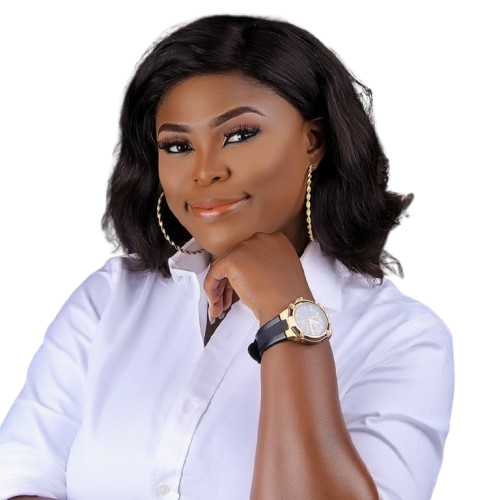
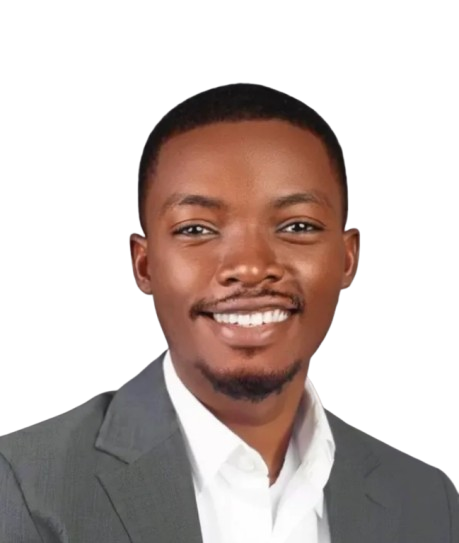
region switcher added

diff --git a/src/components/RegionSwitcher.jsx b/src/components/RegionSwitcher.jsx
@@ -1,0 +1,122 @@
+"use client";
+
+import { useState, useEffect, useRef } from "react";
+import { useRouter, usePathname } from "next/navigation";
+
+const regions = [
+  { code: "", name: "Nigeria", flag: "🇳🇬" },
+  { code: "uk", name: "United Kingdom", flag: "🇬🇧" },
+  { code: "global", name: "Global", flag: "🌍" },
+];
+
+export default function RegionSwitcher() {
+  const [isOpen, setIsOpen] = useState(false);
+  const router = useRouter();
+  const pathname = usePathname();
+  const dropdownRef = useRef(null);
+
+  // Determine the current region directly from the pathname
+  const pathSegments = pathname.split("/").filter(Boolean);
+  const currentRegionCode =
+    pathSegments[0] && regions.some((r) => r.code === pathSegments[0])
+      ? pathSegments[0]
+      : "";
+
+  const currentRegion =
+    regions.find((r) => r.code === currentRegionCode) || regions[0];
+
+  // Close dropdown when clicking outside
+  useEffect(() => {
+    const handleClickOutside = (event) => {
+      if (dropdownRef.current && !dropdownRef.current.contains(event.target)) {
+        setIsOpen(false);
+      }
+    };
+
+    if (isOpen) {
+      document.addEventListener("mousedown", handleClickOutside);
+    }
+
+    return () => {
+      document.removeEventListener("mousedown", handleClickOutside);
+    };
+  }, [isOpen]);
+
+  const handleRegionChange = (regionCode) => {
+    // Get the path without the current region
+    let remainingPath = pathname;
+
+    // If current path starts with a region code, remove it
+    if (pathSegments[0] && regions.some((r) => r.code === pathSegments[0])) {
+      remainingPath = "/" + pathSegments.slice(1).join("/");
+    }
+
+    // Construct new path
+    const newPath = regionCode
+      ? `/${regionCode}${remainingPath}`
+      : remainingPath;
+
+    router.push(newPath);
+    setIsOpen(false);
+  };
+
+  return (
+    <div ref={dropdownRef} className="relative inline-block text-left">
+      <button
+        onClick={() => setIsOpen(!isOpen)}
+        className="inline-flex items-center justify-center w-full px-4 py-2 text-sm font-medium text-gray-700 bg-white border border-gray-300 rounded-md shadow-sm hover:bg-gray-50 focus:outline-none focus:ring-2 focus:ring-offset-2 focus:ring-blue-500"
+      >
+        <span className="mr-2">{currentRegion.flag}</span>
+        {currentRegion.name}
+        <svg
+          className={`ml-2 -mr-1 h-5 w-5 transition-transform ${
+            isOpen ? "rotate-180" : ""
+          }`}
+          xmlns="http://www.w3.org/2000/svg"
+          viewBox="0 0 20 20"
+          fill="currentColor"
+        >
+          <path
+            fillRule="evenodd"
+            d="M5.293 7.293a1 1 0 011.414 0L10 10.586l3.293-3.293a1 1 0 111.414 1.414l-4 4a1 1 0 01-1.414 0l-4-4a1 1 0 010-1.414z"
+            clipRule="evenodd"
+          />
+        </svg>
+      </button>
+
+      {isOpen && (
+        <div className="absolute right-0 z-10 mt-2 w-56 origin-top-right bg-white border border-gray-300 rounded-md shadow-lg">
+          <div className="py-1">
+            {regions.map((region) => (
+              <button
+                key={region.code}
+                onClick={() => handleRegionChange(region.code)}
+                className={`flex items-center w-full px-4 py-2 text-sm text-left hover:bg-gray-100 ${
+                  currentRegion.code === region.code
+                    ? "bg-blue-50 text-blue-700"
+                    : "text-gray-700"
+                }`}
+              >
+                <span className="mr-3">{region.flag}</span>
+                {region.name}
+                {currentRegion.code === region.code && (
+                  <svg
+                    className="ml-auto h-4 w-4 text-blue-600"
+                    fill="currentColor"
+                    viewBox="0 0 20 20"
+                  >
+                    <path
+                      fillRule="evenodd"
+                      d="M16.707 5.293a1 1 0 010 1.414l-8 8a1 1 0 01-1.414 0l-4-4a1 1 0 011.414-1.414L8 12.586l7.293-7.293a1 1 0 011.414 0z"
+                      clipRule="evenodd"
+                    />
+                  </svg>
+                )}
+              </button>
+            ))}
+          </div>
+        </div>
+      )}
+    </div>
+  );
+}

diff --git a/src/app/team/training-analyst/page.js b/src/app/team/training-analyst/page.js
@@ -32,7 +32,7 @@ const page = () => {
             Team Members
           </span>
           <div className="my-4">
-            <h3 className="text-3xl font-semibold my-8">Justina Aderinluwo</h3>
+            <h3 className="text-3xl font-semibold my-8">Isaiah Okwori</h3>
           </div>
           <div className="flex flex-col lg:flex-row w-[100%] gap-8 my-8">
             <div className="w-[100%] lg:w-[20%]">
@@ -45,8 +45,7 @@ const page = () => {
                   />
                 </div>
                 <div className="bg-white w-[250px] p-4 shadow-md rounded-lg">
-                  <h3 className="font-semibold text-lg">Justina Aderinluwo
-</h3>
+                  <h3 className="font-semibold text-lg">Isaiah Okwori</h3>
                   <p className="text-[#E45F11]">
                     Training and Development Analyst
                   </p>
@@ -72,24 +71,22 @@ const page = () => {
               </div>
             </div>
             <div className="w-[100%] lg:w-[80%]">
-              <h4 className="text-xl font-semibold mb-6">About Justina </h4>
+              <h4 className="text-xl font-semibold mb-6">About Isaiah</h4>
               <p className="text-[#999] text-lg">
-                Justina is an enthusiastic Junior Training and Development
-                Analyst with a passion for fostering learning and professional
-                growth within organizations. Skilled in supporting the design,
-                implementation, and evaluation of training programs that enhance
-                employee skills and performance.
+                Isaiah Okwori is a dynamic Training and Development Analyst at BFG Global Consulting, where he designs and implements capacity-building initiatives that empower organizations and communities to achieve sustainable impact. With a strong background in international development, project management, and policy analysis, he bridges technical expertise with practical strategies to drive organizational growth and social change.
+
               </p>
               <br />
               <p className="text-[#999] text-lg">
-                Proficient in assisting with needs assessments, coordinating
-                training sessions, and leveraging learning technologies to
-                deliver engaging and impactful learning experiences. He is adept
-                at gathering feedback, analyzing training outcomes, and
-                contributing to the continuous improvement of development
-                initiatives.
+                His work spans critical areas including climate resilience, health equity, and strategic communications, where he has contributed to research-driven solutions and program strategies that address complex development challenges. Passionate about advancing equity and sustainability, Isaiah leverages his analytical and communication skills to translate insights into actionable policies and training programs.
+
               </p>
               <br />
+              <p className="text-[#999] text-lg">
+                Isaiah is committed to fostering inclusive development practices and equipping leaders with the tools to navigate evolving global challenges.
+
+
+              </p>
             </div>
           </div>
         </div>

diff --git a/src/components/FixedHeader.js b/src/components/FixedHeader.js
@@ -12,6 +12,7 @@ import Logo from "@/app/bfg-logo.png";
 import WhiteLogo from "@/app/bfg-whitelogo.png";
 import MediaQuery from "./media-query";
 import { navigation_links } from "@/constants/navigation-constant";
+import RegionSwitcher from "./RegionSwitcher";
 
 const FixedHeader = () => {
   const [active, setActive] = useState(false);
@@ -133,6 +134,9 @@ const FixedHeader = () => {
                   </ul>
                 </div>
                 <div>
+                  <RegionSwitcher />
+                </div>
+                <div>
                   <button className="bg-[#E26015] hover:bg-black hover:text-white text-white border-[#E26015] font-semibold  py-2 px-4 rounded-lg">
                     <Link href="/contact">Discuss Your Project</Link>
                   </button>
@@ -217,7 +221,10 @@ const FixedHeader = () => {
                       )
                     )}
                   </ul>
-                </div>
+                  </div>
+                  <div>
+                    <RegionSwitcher />
+                  </div>
                 <div>
                   <button className="bg-[#E26015] hover:bg-black hover:text-white text-white border-[#E26015] font-semibold  py-2 px-4 rounded-lg">
                     <Link href="/contact">Discuss Your Project</Link>

diff --git a/src/components/Header.js b/src/components/Header.js
@@ -12,6 +12,7 @@ import Logo from "@/app/bfg-logo.png";
 import WhiteLogo from "@/app/bfg-whitelogo.png";
 import MediaQuery from "./media-query";
 import { navigation_links } from "@/constants/navigation-constant";
+import RegionSwitcher from "./RegionSwitcher";
 
 const Header = () => {
   const [active, setActive] = useState(false);
@@ -178,6 +179,9 @@ const Header = () => {
                   </ul>
                 </div>
                 <div>
+                  <RegionSwitcher />
+                </div>
+                <div>
                   <button className="bg-[#E26015] hover:bg-black hover:text-white text-white border-[#E26015] font-semibold  py-2 px-4 rounded-lg">
                     <Link href="/contact">Discuss Your Project</Link>
                   </button>
@@ -260,6 +264,9 @@ const Header = () => {
                       )
                     )}
                   </ul>
+                </div>
+                <div>
+                  <RegionSwitcher />
                 </div>
                 <div>
                   <button className="bg-[#E26015] hover:bg-black hover:text-white text-white border-[#E26015] font-semibold  py-2 px-4 rounded-lg">

diff --git a/src/app/solutions/training-development/page.js b/src/app/solutions/training-development/page.js
@@ -446,7 +446,7 @@ const Page = () => {
                     className="w-full h-full object-cover"
                   />
                   <div className="bg-white p-2 shadow-md rounded-tr-xl">
-                    <h3 className="font-semibold text-lg">Justina Aderinluwo</h3>
+                    <h3 className="font-semibold text-lg">Isaiah Okwori</h3>
                                      <p className="text-[#E45F11]">Training and Development Analyst</p>
                                    <Link href="/team/training-analyst">
                                        <button className="text-[#999] text-cursor text-md underline hover:text-black">Read More</button>

diff --git a/src/app/team/page.js b/src/app/team/page.js
@@ -385,7 +385,7 @@ const Page = () => {
                   />
                 </div>
                 <div className="bg-white  w-[250px] p-4 shadow-md rounded-lg">
-                  <h3 className="font-semibold text-lg">Justina Aderinluwo</h3>
+                  <h3 className="font-semibold text-lg">Isaiah Okwori</h3>
                   <p className="text-[#E45F11]">
                     Training and Development Analyst
                   </p>
